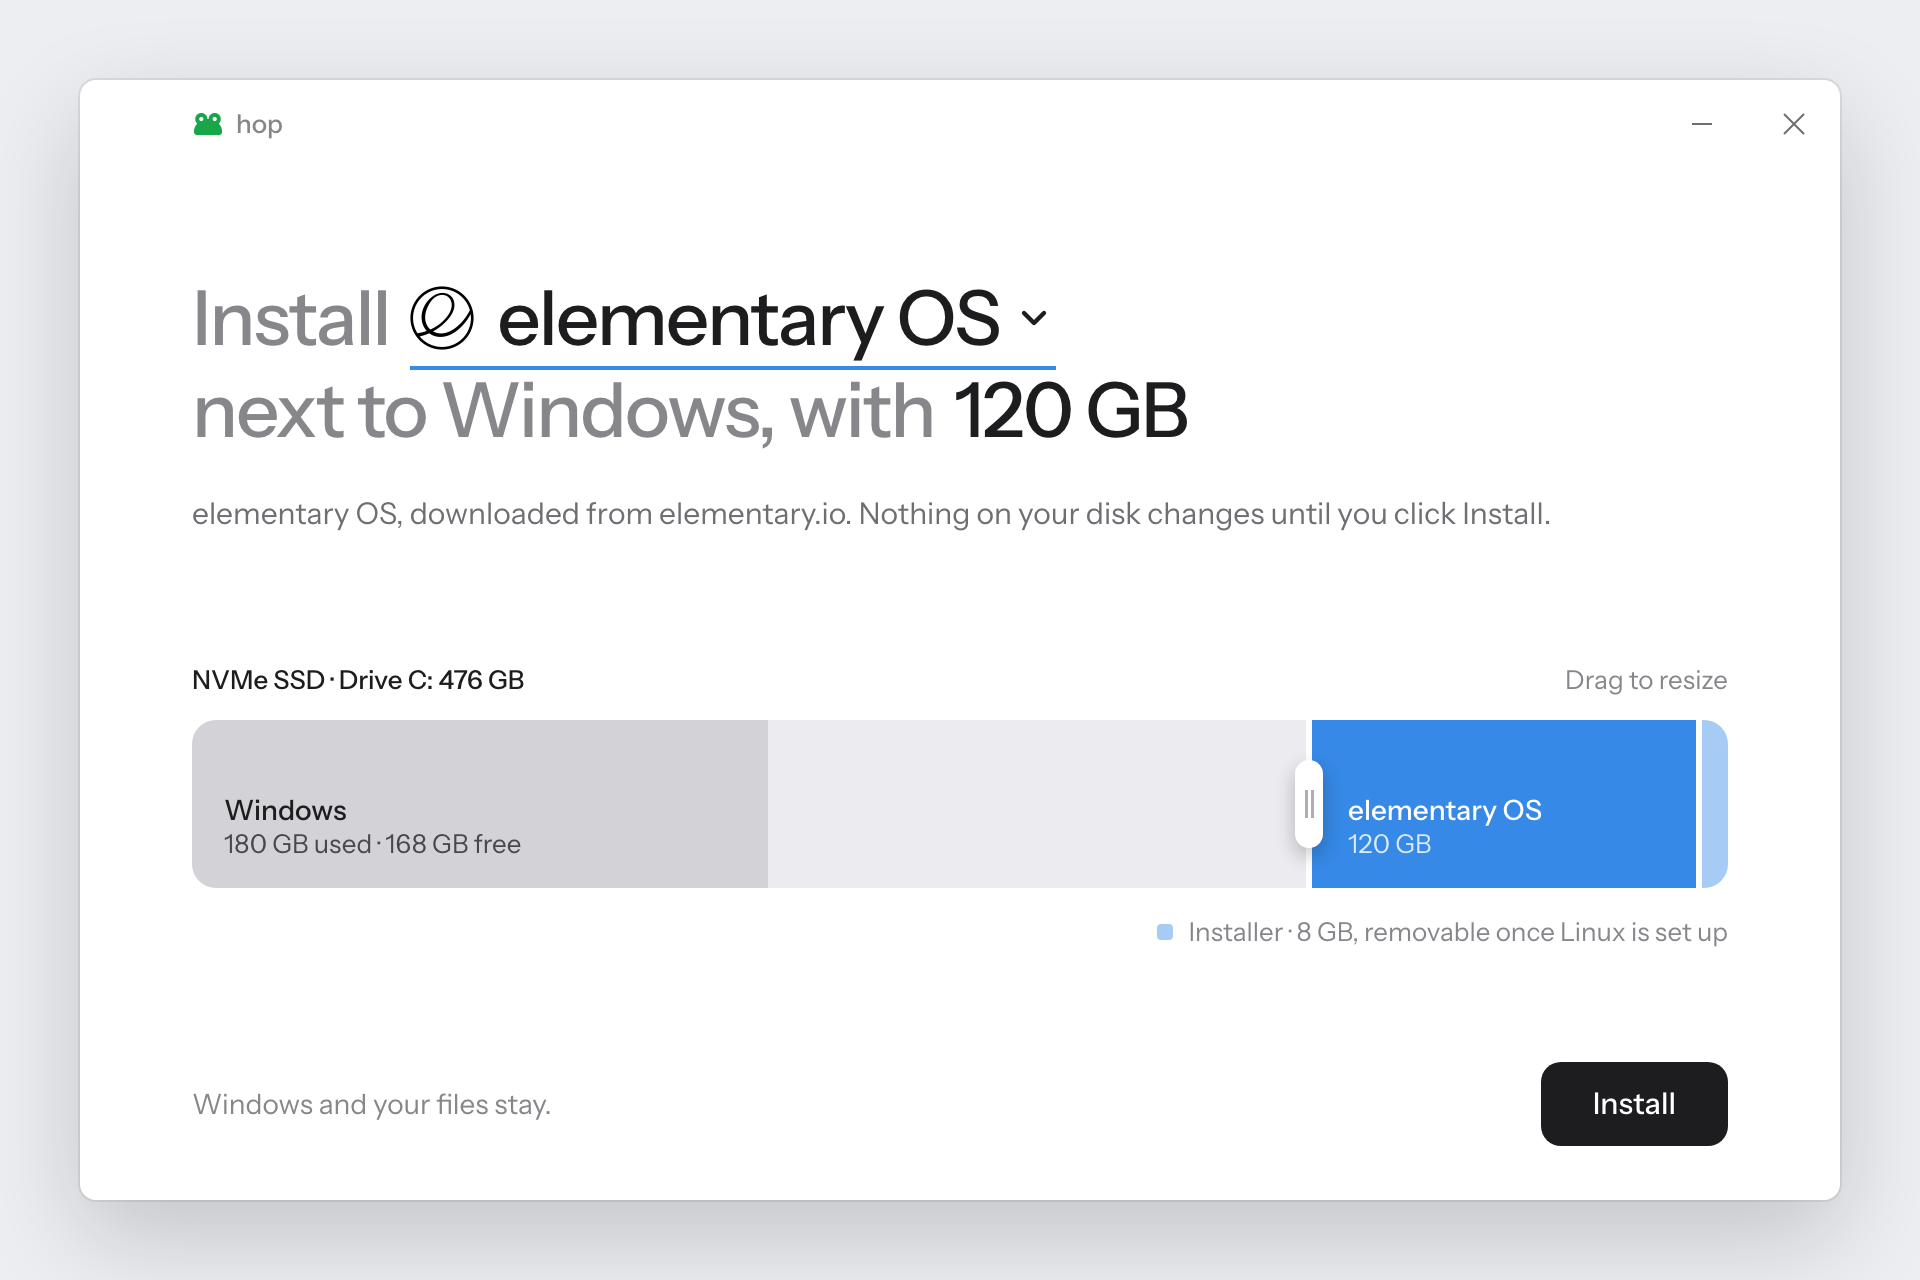
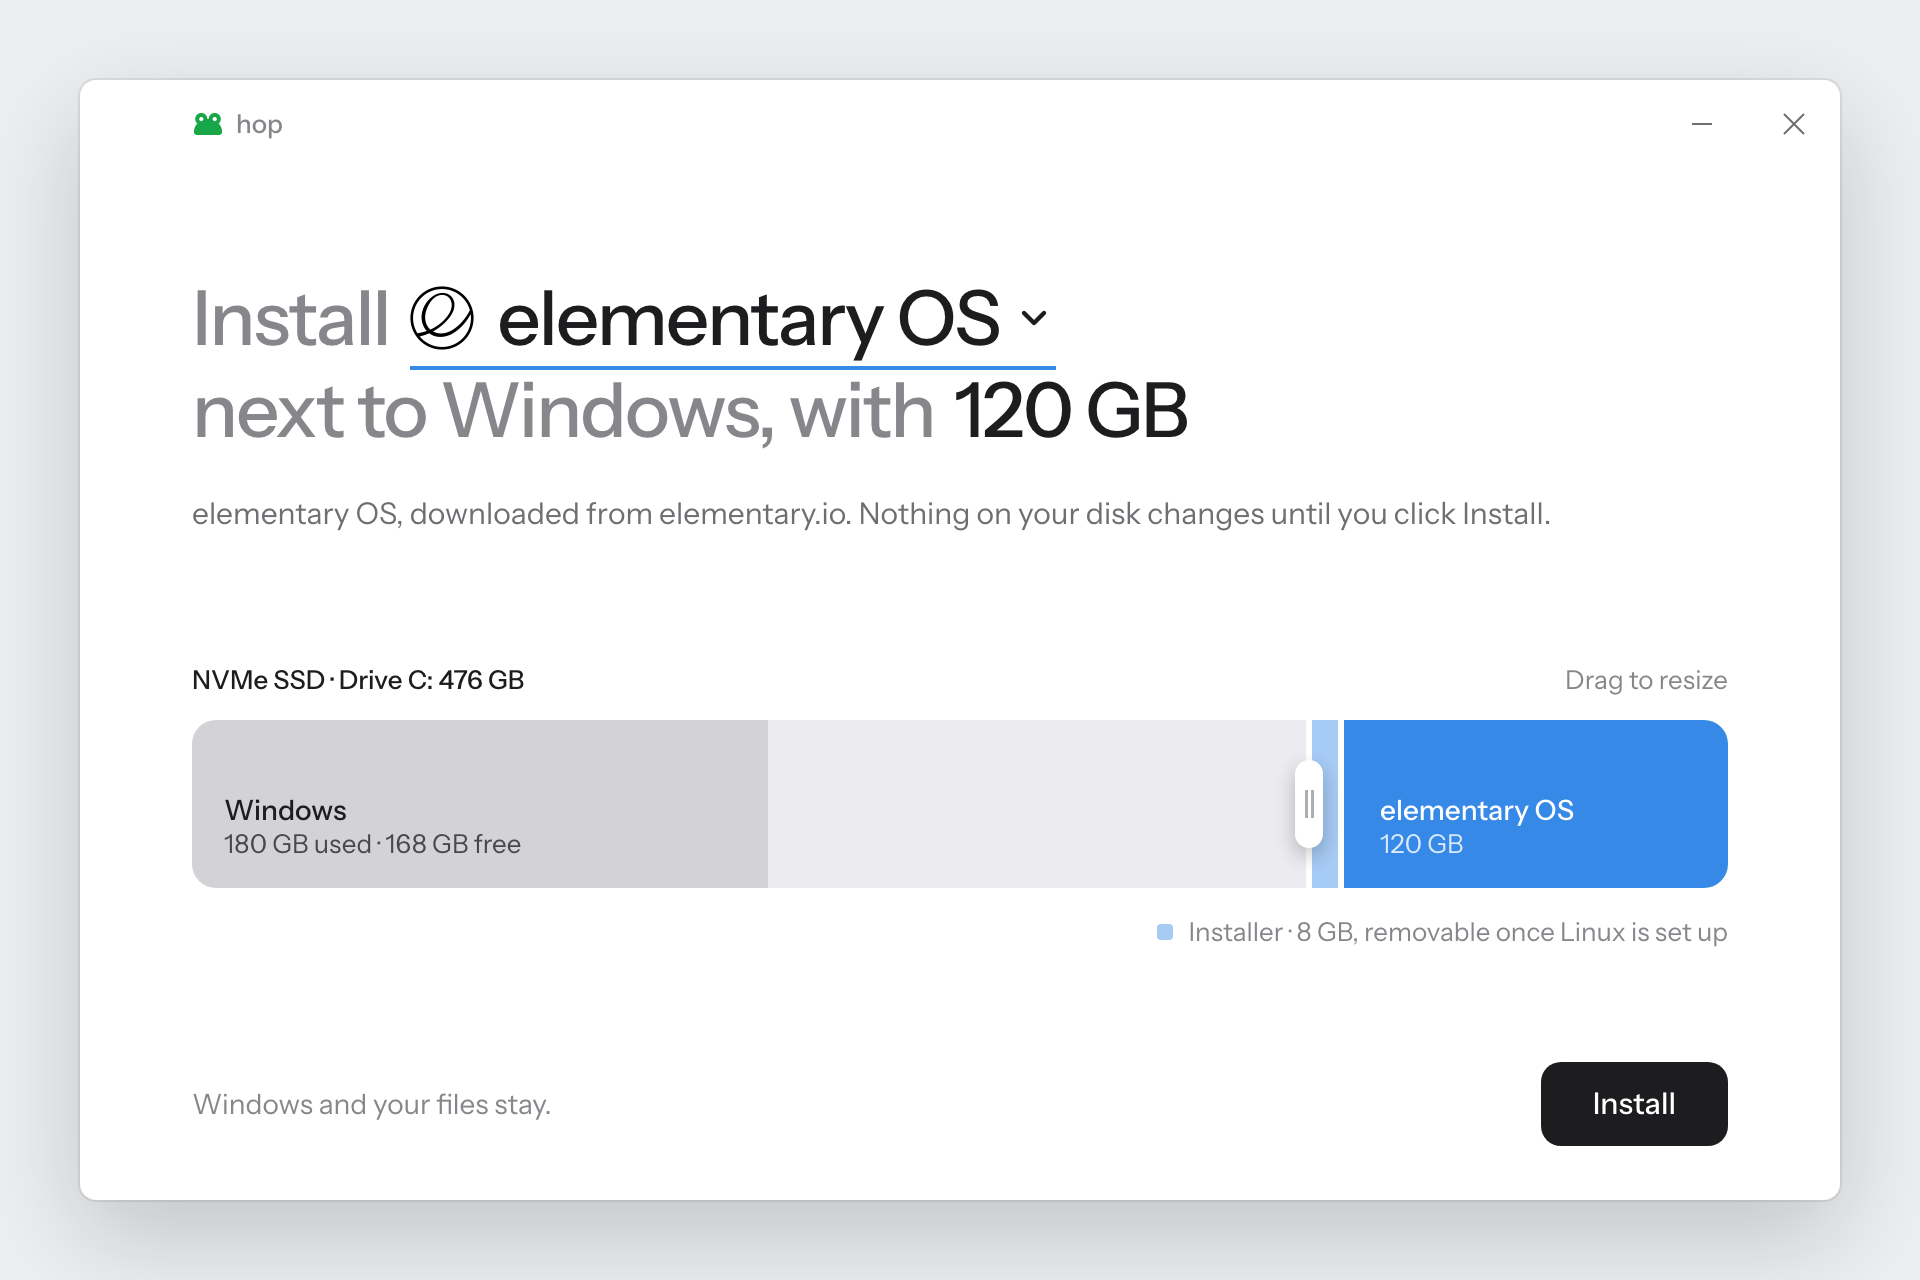
[UPDATE] docs: cover the installer's new place
Changelog, troubleshooting and test checklist.

Changed region(s): [[0.6562, 0.5625, 0.8125, 0.6875], [0.875, 0.5625, 0.9062, 0.6875]]

diff --git a/docs/TESTING.md b/docs/TESTING.md
@@ -41,12 +41,14 @@ Note which of these you ran in your pull request. Anything touching disks or boo
 - [ ] Fill C: until there isn't room: the window says how much to free
 - [ ] Pick an ISO that isn't Ubuntu-based, and one with a file over 4 GB: both refused before the disk changes
 - [ ] Open a second copy of hop: refused
+- [ ] Plug in a USB stick with an Ubuntu ISO written to it: warned before starting, refused at restart
+- [ ] Click Cancel as "Making room" begins: either it cancels with the disk untouched, or the install carries on
 
 **Undo**
 
 - [ ] Undo before installing Linux: C: gets all its space back, and no startup entry or `\EFI\hop` remains
 - [ ] Fast Startup is back on after undo, if it was on before
-- [ ] After installing Linux: reopen hop, it says installed, and removing the installer leaves Linux working
+- [ ] After installing Linux: reopen hop, it says installed, and removing the installer leaves Linux working and grows C:
 
 **Another Linux**
 

diff --git a/CHANGELOG.md b/CHANGELOG.md
@@ -44,7 +44,13 @@
 - Sparse ISO files, ISOs in cloud folders, ISOs too big for FAT32 and a full EFI partition now work or
   explain themselves.
 
+- Installer files with very long names, like two of Pop!_OS's packages, now keep their real names.
+- Cancel could land just as the disk started changing. Now either Cancel wins or the install does.
+- The message after Undo says what actually happened to the space.
+
 ### Changed
 
+- The installer now sits next to C:, so removing it after installing Linux gives its space to Windows.
+- hop warns about another Linux installer on the PC, and won't restart with one on a USB drive.
 - Renamed from LinuxHop to hop, with a new logo. Setups made by LinuxHop builds are still recognised.
 - The boot loader now runs from Windows' EFI partition, because many firmwares won't start files from anywhere else.

diff --git a/docs/TROUBLESHOOTING.md b/docs/TROUBLESHOOTING.md
@@ -41,6 +41,11 @@ Ubuntu 24.04's installer is [reported](https://bugs.launchpad.net/ubuntu-desktop
 to ask for BitLocker to be turned off before offering this. If yours does, use the manual option hop
 lists, or turn off BitLocker first.
 
+## A different installer started
+
+GRUB starts the first partition it finds with a Linux installer on it. Unplug any USB installers, and
+delete other tools' installer partitions in Disk Management if you don't need them. hop warns about these.
+
 ## The installer can't see the drive
 
 The drive is probably in RAID or Intel RST mode. Linux needs AHCI, set in the BIOS. **Don't just switch
